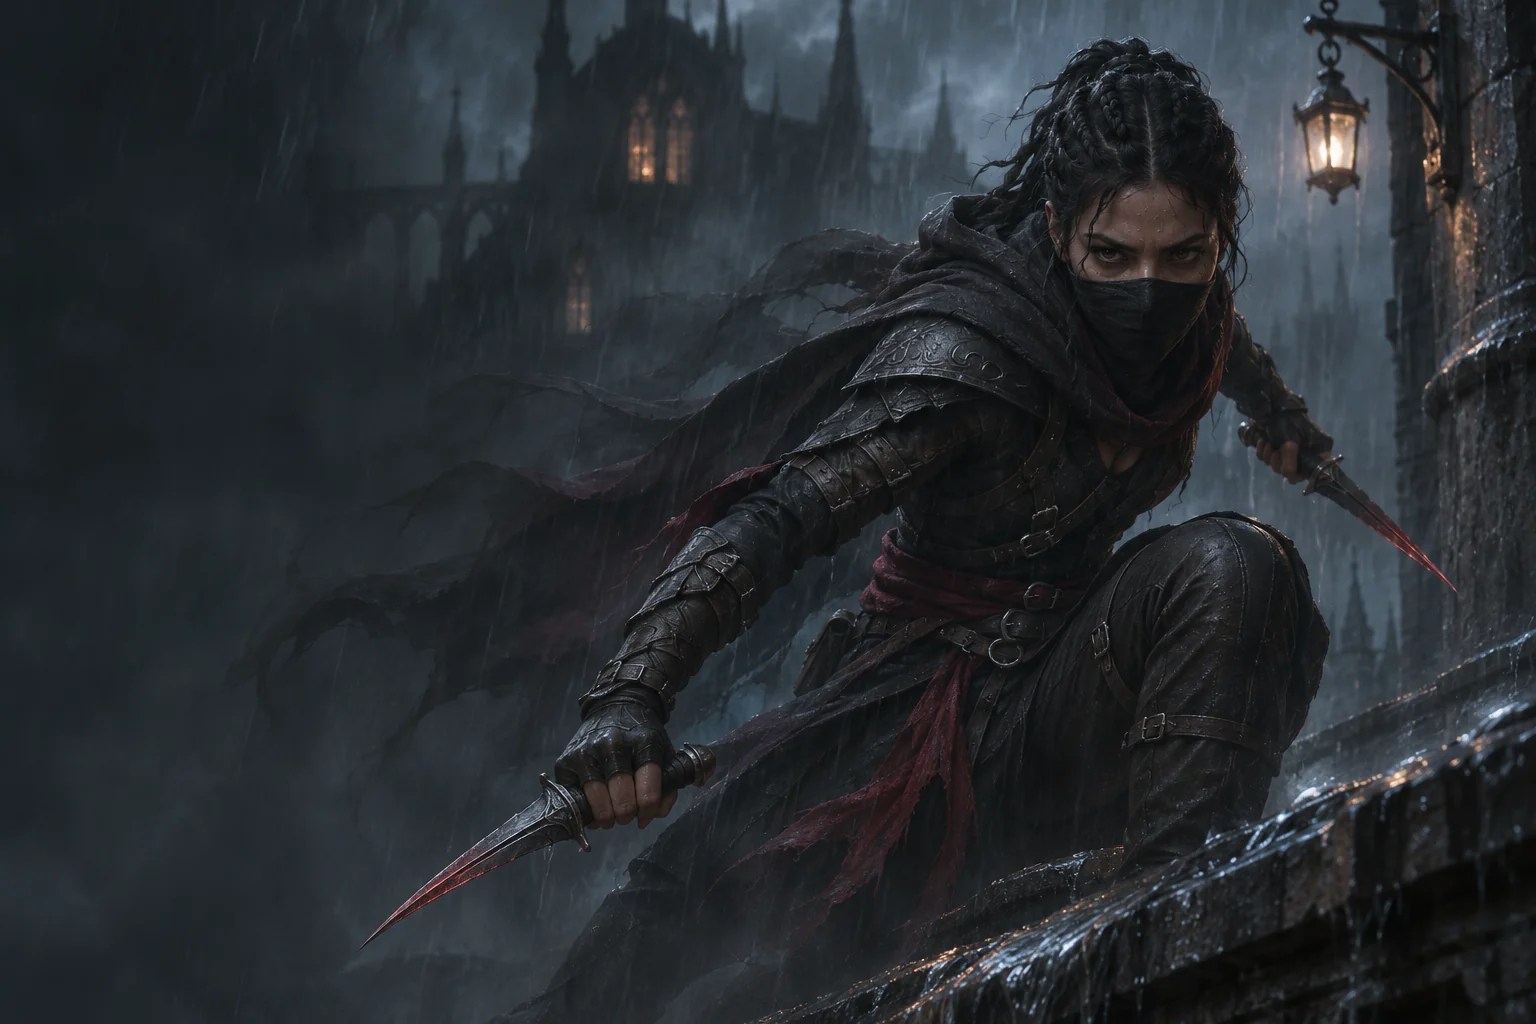
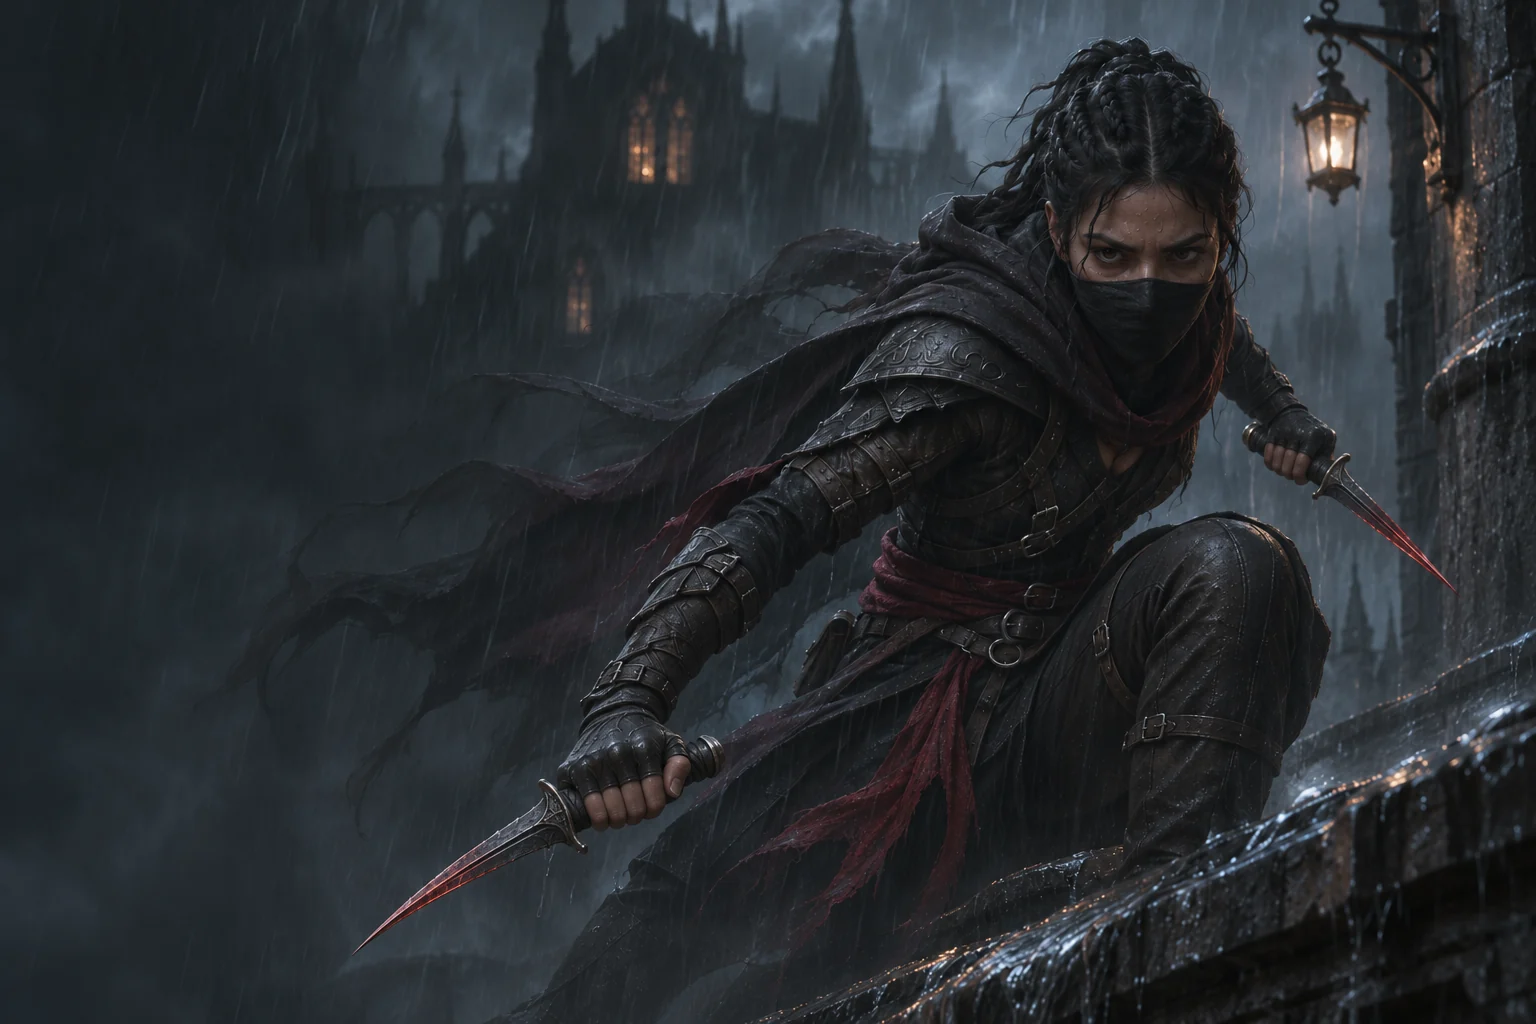
Refine class portrait anatomy and replace caster artwork

diff --git a/site/assets/class-art.js b/site/assets/class-art.js
@@ -2,7 +2,7 @@
 export const CLASS_ART = Object.freeze({
   apothecary: {"src":"assets/art/classes/apothecary.webp","alt":"An Apothecary releases venom and luminous spores from field alchemy","position":"65% 0%"},
   ascetic: {"src":"assets/art/classes/ascetic.webp","alt":"An Ascetic parts the rain with a measured open-palm strike","position":"65% 0%"},
-  assassin: {"src":"assets/art/classes/assassin.webp","alt":"An Assassin emerges from shadow with twin daggers","position":"65% 0%"},
+  assassin: {"src":"assets/art/classes/assassin.webp?v=2","alt":"An Assassin emerges from shadow with twin daggers","position":"87% 0%"},
   beguiler: {"src":"assets/art/classes/beguiler.webp","alt":"A Beguiler slips between two spectral doubles","position":"65% 0%"},
   berserker: {"src":"assets/art/berserker.webp","alt":"Berserker charging into battle with two axes"},
   blademaster: {"src":"assets/art/classes/blademaster.webp","alt":"A Blademaster completes a precise draw-cut in the rain","position":"65% 0%"},
@@ -10,17 +10,17 @@ export const CLASS_ART = Object.freeze({
   breaker: {"src":"assets/art/classes/breaker.webp","alt":"A Breaker brings a great maul down through fractured stone","position":"65% 0%"},
   chronomancer: {"src":"assets/art/classes/chronomancer.webp","alt":"A Chronomancer holds rain and flying fragments motionless","position":"65% 0%"},
   cleric: {"src":"assets/art/classes/cleric.webp","alt":"A Cleric spreads golden healing light through a ruined chapel","position":"72% 0%"},
-  cryomancer: {"src":"assets/art/classes/cryomancer.webp","alt":"A Cryomancer sends piercing frost across a freezing stone terrace","position":"65% 0%"},
+  cryomancer: {"src":"assets/art/classes/cryomancer.webp?v=2","alt":"A Cryomancer sends piercing frost across a freezing stone terrace","position":"87% 0%"},
   falconer: {"src":"assets/art/classes/falconer.webp","alt":"A Falconer releases a hunting falcon into the storm","position":"74% 0%"},
-  firebrand: {"src":"assets/art/classes/firebrand.webp","alt":"A Firebrand rallies a distant crowd with voice and war horn","position":"65% 0%"},
+  firebrand: {"src":"assets/art/classes/firebrand.webp?v=2","alt":"A Firebrand rallies a distant crowd with voice and war horn","position":"65% 0%"},
   flagellant: {"src":"assets/art/classes/flagellant.webp","alt":"A Flagellant channels a crimson covenant through battered armor","position":"65% 0%"},
   guardian: {"src":"assets/art/classes/guardian.webp","alt":"A Guardian holds a tower shield beneath a pale protective ward","position":"65% 0%"},
   hivecaller: {"src":"assets/art/classes/hivecaller.webp","alt":"A Hivecaller directs a ribbon of biting motes from a living hive","position":"65% 0%"},
   juggernaut: {"src":"assets/art/classes/juggernaut.webp","alt":"A Juggernaut drives an armored fist into cracking stone","position":"65% 0%"},
-  lancer: {"src":"assets/art/classes/lancer.webp","alt":"A Lancer recalls a harvest of spears through the battlefield","position":"65% 0%"},
+  lancer: {"src":"assets/art/classes/lancer.webp?v=2","alt":"A Lancer recalls a harvest of spears through the battlefield","position":"65% 0%"},
   magician: {"src":"assets/art/classes/magician.webp","alt":"A Magician shapes fire, frost and lightning inside a ruined observatory","position":"65% 0%"},
   matador: {"src":"assets/art/classes/matador.webp","alt":"A Matador turns a charging beast with a crimson cape","position":"65% 0%"},
-  necromancer: {"src":"assets/art/necromancer.webp","alt":"Necromancer surrounded by skeletal followers"},
+  necromancer: {"src":"assets/art/classes/necromancer.webp","alt":"A raven-haired Necromancer commands skeletal retainers on rain-wet mausoleum steps","position":"65% 0%"},
   pyromancer: {"src":"assets/art/classes/pyromancer.webp","alt":"A Pyromancer summons a pillar of flame in a ruined courtyard","position":"65% 0%"},
   ranger: {"src":"assets/art/classes/ranger.webp","alt":"A hooded Ranger draws a longbow on a rain-soaked woodland bridge","position":"65% 0%"},
   resonator: {"src":"assets/art/classes/resonator.webp","alt":"A Resonator sends silver-blue pressure rings from a forked staff","position":"65% 0%"},
@@ -29,10 +29,10 @@ export const CLASS_ART = Object.freeze({
   sentinel: {"src":"assets/art/classes/sentinel.webp","alt":"A spiked Sentinel braces for a punishing counterstrike","position":"65% 0%"},
   sharper: {"src":"assets/art/classes/sharper.webp","alt":"A Sharper throws a fan of razor-edged cards through the mist","position":"65% 0%"},
   skald: {"src":"assets/art/classes/skald.webp","alt":"A Skald sends a war-song rippling through the rain","position":"65% 0%"},
-  sorcerer: {"src":"assets/art/sorcerer.webp","alt":"Sorcerer calling lightning down on an approaching army"},
-  spellblade: {"src":"assets/art/classes/spellblade.webp","alt":"A Spellblade cuts through rain with lightning-banked steel and a flame lash","position":"65% 0%"},
+  sorcerer: {"src":"assets/art/classes/sorcerer.webp","alt":"A storm Sorcerer gathers lightning above her open palm on a ruined fortress terrace","position":"65% 0%"},
+  spellblade: {"src":"assets/art/classes/spellblade.webp?v=2","alt":"A Spellblade cuts through rain with lightning-banked steel and a flame lash","position":"65% 0%"},
   summoner: {"src":"assets/art/classes/summoner.webp","alt":"A Summoner binds a single twilight familiar on ruined steps","position":"87% 0%"},
-  swashbuckler: {"src":"assets/art/classes/swashbuckler.webp","alt":"A Swashbuckler lunges with saber and buckler across a wet harbor","position":"65% 0%"},
+  swashbuckler: {"src":"assets/art/classes/swashbuckler.webp?v=2","alt":"A Swashbuckler lunges with saber and buckler across a wet harbor","position":"87% 0%"},
   tamer: {"src":"assets/art/classes/tamer.webp","alt":"A Tamer stands beside a bonded grey wolf in a misty forest","position":"87% 0%"},
   trapper: {"src":"assets/art/classes/trapper.webp","alt":"A Trapper arms a compact ballista beside concealed snares","position":"65% 0%"},
   vanguard: {"src":"assets/art/classes/vanguard.webp","alt":"A Vanguard charges behind a moving wall of force","position":"65% 0%"},

diff --git a/site/index.html b/site/index.html
@@ -135,7 +135,7 @@
 </div>
 <script src="assets/home-atmosphere.js?v=hw3"></script>
 <script src="assets/memory-art.js?v=hw6"></script>
-<script type="module" src="assets/home.js?v=hw6"></script>
+<script type="module" src="assets/home.js?v=hw7"></script>
 <script src="assets/showcase.js?v=hw3"></script>
 <script src="assets/guide-copy.js"></script>
 <script src="assets/decks.js"></script>

diff --git a/site/assets/home.js b/site/assets/home.js
@@ -1,6 +1,6 @@
 /* Landing-page controls. Atmosphere and the cinema retain their own owners. */
 import { createClassDeck } from './class-deck.js';
-import { getClassArtwork } from './class-art.js';
+import { getClassArtwork } from './class-art.js?v=hw7';
 (function () {
   'use strict';
   // The explicit trailer button follows the same scheduled feature as the logo.

diff --git a/site/assets/art/classes/README.md b/site/assets/art/classes/README.md
@@ -1,22 +1,27 @@
 # Class key art
 
-These 36 original paintings were generated for Hollow Wake on 2026-11-09
+These 38 original paintings were generated for Hollow Wake on 2026-11-09
 using built-in image generation in the owner's chat. No stock images or
-third-party artwork were supplied. The existing Berserker, Sorcerer and
-Necromancer paintings remain in the parent folder, bringing coverage to
-all 39 classes. These are illustrative key art, not gameplay screenshots.
+third-party artwork were supplied. The existing Berserker painting in the
+parent folder brings coverage to all 39 classes. The former Sorcerer and
+Necromancer trailer paintings remain there as original project assets;
+the class showcase uses the new matching portraits in this folder.
+These are illustrative key art, not gameplay screenshots.
 
 The art direction uses each class's description and starting abilities,
 cinematic dark fantasy materials, subdued weather and fog, a dark left
 third for copy, and a distinct character, weapon, spell or companion.
 Full prompts and original output filenames are preserved in
-`docs/design/class-art-prompts.json`. The generation tool did not expose
+`docs/design/class-art-prompts.json`. Targeted hand and grip corrections for
+Cryomancer, Swashbuckler, Firebrand, Spellblade, Assassin and Lancer, and
+the replacement Necromancer and Sorcerer prompts, are recorded in
+`docs/design/class-art-revisions.json`. The generation tool did not expose
 an underlying model version; none is inferred here.
 
 Original 1536 x 1024 PNGs are retained in the owner's generated-image
 library. Website files are WebP conversions at quality 86 and compression
-level 6, with no cropping, compositing or upscaling. The 36 web images total
-about 7 MB. Only the selected image loads in the class showcase.
+level 6, with no cropping, compositing or upscaling. The 38 web images total
+7,304,662 bytes (about 7.3 MB). Only the selected image loads in the showcase.
 
 `site/assets/class-art.js` owns class-to-image mapping, descriptive alt text,
 and optional crop positions. The existing memory-art renderer owns the

diff --git a/docs/design/site-presentation.md b/docs/design/site-presentation.md
@@ -45,10 +45,13 @@ to open on first/weekly arrival and from either the logo or explicit button.
 ## Artwork and content
 
 The nine paintings in `site/assets/art/` are existing project trailer key art.
-Berserker, Sorcerer and Necromancer retain those originals; the 36 paintings
-in `site/assets/art/classes/` give every other class its own scene. All are
+Berserker retains its original; the 38 paintings in `site/assets/art/classes/`
+give every other class its own scene, including matching replacement portraits
+for Necromancer and Sorcerer. All are
 illustrative key art, not gameplay screenshots. Each folder records provenance;
-`docs/design/class-art-prompts.json` preserves the new generation prompts.
+`docs/design/class-art-prompts.json` preserves the initial generation prompts,
+and `docs/design/class-art-revisions.json` records anatomy edits and the two
+replacement caster portraits. Revised image URLs include a cache version.
 `assets/class-art.js` maps class IDs to paintings, alternative text and optional
 crop positions for companions. New classes without authored art use a frontier
 scene until their painting is added. The coverage test flags missing portraits.
